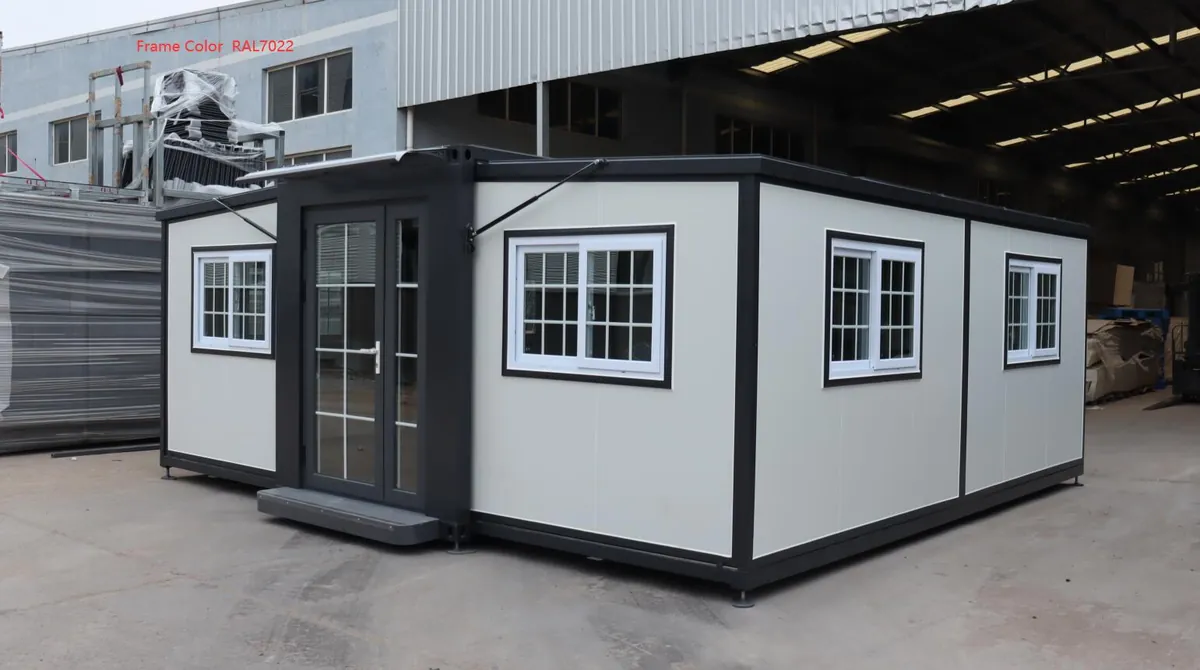
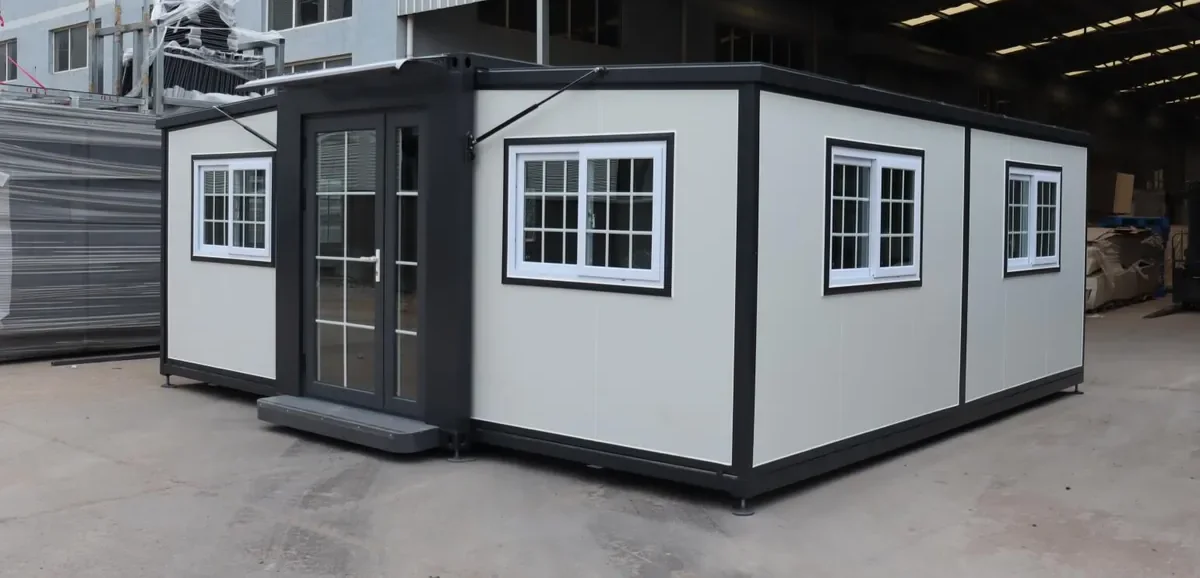
Redesign the range section to hero the two editions
- Replace the two-card carousel (arrows for two items, small cards) with
  a split showcase: two large photo-led panels with gradient overlays,
  serif edition names and hover zoom
- Classic White uses the factory exterior, Black Edition the backyard
  lifestyle shot; both link straight to their product pages
- Crop the manufacturer's red RAL annotation strip out of the white
  factory photo (also cleans up the product gallery lead)
- Swap the "Explore the full range" button for a lighter compare link;
  add reusable .text-link style

Claude-Session: https://claude.ai/code/session_01WCxgmdczAinLagV4CD8NWB

diff --git a/index.html b/index.html
@@ -232,38 +232,34 @@
     </section>
 
     <section class="section section-white" aria-labelledby="range-h">
-      <div class="wrap" style="padding-inline:0">
-        <div class="wrap center reveal">
+      <div class="wrap">
+        <div class="center reveal">
           <span class="sec-num" aria-hidden="true">02</span>
           <span class="eyebrow eyebrow-center">The range</span>
           <h2 id="range-h">One home. Two editions. <em>Zero compromises.</em></h2>
-          <p class="lead center" style="margin-inline:auto">One layout. Classic White or feature-clad Black.</p>
+          <p class="lead center" style="margin-inline:auto">Same two-bedroom layout. Choose your exterior.</p>
         </div>
-        <div class="carousel" style="margin-top:2.5rem">
-          <div class="carousel-nav">
-            <button class="carousel-btn" data-dir="prev" aria-label="Previous products"><svg width="20" height="20" viewBox="0 0 24 24" fill="none" stroke="currentColor" stroke-width="2.5" stroke-linecap="round" stroke-linejoin="round"><path d="M19 12H5M11 18l-6-6 6-6"/></svg></button>
-            <button class="carousel-btn" data-dir="next" aria-label="Next products"><svg width="20" height="20" viewBox="0 0 24 24" fill="none" stroke="currentColor" stroke-width="2.5" stroke-linecap="round" stroke-linejoin="round"><path d="M5 12h14M13 6l6 6-6 6"/></svg></button>
-          </div>
-          <div class="carousel-track">
-          <a class="product-card" href="product-model-0206-two-bedroom-white.html">
-            <div class="media"><span class="badge">Two Bedrooms</span><img src="assets/photos/white-cutout.webp" alt="Model 0206 Classic White expandable home with grid-design windows" loading="lazy"></div>
-            <div class="body">
-              <h3>Model 0206 Two-Bedroom — Classic White</h3>
-              <p class="meta">2 bed &middot; 1 bath &middot; sleeps 4</p>
-              <div class="price-row"><span class="price" style="font-size:var(--fs-400)">Delivered quote on request</span><svg class="arrow" width="18" height="18" viewBox="0 0 24 24" fill="none" stroke="currentColor" stroke-width="2.5" stroke-linecap="round" stroke-linejoin="round" aria-hidden="true"><path d="M5 12h14M13 6l6 6-6 6"/></svg></div>
+        <div class="editions" style="margin-top:2.5rem">
+          <a class="edition reveal reveal-d0" href="product-model-0206-two-bedroom-white.html">
+            <img src="assets/photos/white-factory-1.webp" alt="Model 0206 Classic White fully expanded, white panels with grid-design windows" loading="lazy">
+            <div class="edition-overlay">
+              <span class="edition-tag">Model 0206 &middot; Two bedrooms</span>
+              <h3>Classic White</h3>
+              <p>Crisp white panels, grid windows. Bright and timeless.</p>
+              <span class="edition-cta">Explore this edition <svg class="arrow" width="18" height="18" viewBox="0 0 24 24" fill="none" stroke="currentColor" stroke-width="2.5" stroke-linecap="round" stroke-linejoin="round" aria-hidden="true"><path d="M5 12h14M13 6l6 6-6 6"/></svg></span>
             </div>
           </a>
-          <a class="product-card" href="product-model-0206-two-bedroom-black.html">
-            <div class="media"><span class="badge">Premium Cladding</span><img src="assets/photos/hero-backyard.webp" alt="Model 0206 Black Edition with timber-look cladding installed in a backyard" loading="lazy"></div>
-            <div class="body">
-              <h3>Model 0206 Two-Bedroom — Black Edition</h3>
-              <p class="meta">2 bed &middot; 1 bath &middot; sleeps 4</p>
-              <div class="price-row"><span class="price" style="font-size:var(--fs-400)">Delivered quote on request</span><svg class="arrow" width="18" height="18" viewBox="0 0 24 24" fill="none" stroke="currentColor" stroke-width="2.5" stroke-linecap="round" stroke-linejoin="round" aria-hidden="true"><path d="M5 12h14M13 6l6 6-6 6"/></svg></div>
+          <a class="edition reveal reveal-d1" href="product-model-0206-two-bedroom-black.html">
+            <img src="assets/photos/hero-backyard.webp" alt="Model 0206 Black Edition with timber-look cladding in a landscaped backyard" loading="lazy">
+            <div class="edition-overlay">
+              <span class="edition-tag">Model 0206 &middot; Two bedrooms</span>
+              <h3>Black Edition</h3>
+              <p>Matte black frame, timber-look feature cladding.</p>
+              <span class="edition-cta">Explore this edition <svg class="arrow" width="18" height="18" viewBox="0 0 24 24" fill="none" stroke="currentColor" stroke-width="2.5" stroke-linecap="round" stroke-linejoin="round" aria-hidden="true"><path d="M5 12h14M13 6l6 6-6 6"/></svg></span>
             </div>
           </a>
-          </div>
         </div>
-        <div class="wrap center"><a class="btn btn-navy" href="products.html">Explore the full range <svg class="arrow" width="18" height="18" viewBox="0 0 24 24" fill="none" stroke="currentColor" stroke-width="2.5" stroke-linecap="round" stroke-linejoin="round" aria-hidden="true"><path d="M5 12h14M13 6l6 6-6 6"/></svg></a></div>
+        <p class="center reveal" style="margin-top:1.75rem"><a class="text-link" href="products.html">Compare both editions side by side <svg class="arrow" width="18" height="18" viewBox="0 0 24 24" fill="none" stroke="currentColor" stroke-width="2.5" stroke-linecap="round" stroke-linejoin="round" aria-hidden="true"><path d="M5 12h14M13 6l6 6-6 6"/></svg></a></p>
       </div>
     </section>
 

diff --git a/assets/css/main.css b/assets/css/main.css
@@ -1185,6 +1185,88 @@ h1 em, h2 em, h3 em {
 .cta-banner { position: relative; overflow: hidden; }
 
 /* Bento grid */
+/* Edition showcase — two photo-led panels */
+.editions {
+  display: grid;
+  grid-template-columns: 1fr 1fr;
+  gap: clamp(1rem, 1.8vw, 1.5rem);
+}
+.edition {
+  position: relative;
+  display: block;
+  min-height: clamp(420px, 52vh, 600px);
+  border-radius: var(--radius-lg);
+  overflow: hidden;
+  box-shadow: var(--shadow-md);
+  text-decoration: none;
+}
+.edition img {
+  position: absolute;
+  inset: 0;
+  width: 100%;
+  height: 100%;
+  object-fit: cover;
+  transition: transform 0.7s var(--ease);
+}
+.edition:hover img,
+.edition:focus-visible img { transform: scale(1.045); }
+.edition-overlay {
+  position: absolute;
+  inset: auto 0 0 0;
+  padding: clamp(1.5rem, 3vw, 2.25rem);
+  background: linear-gradient(180deg, rgba(20, 25, 14, 0) 0%, rgba(20, 25, 14, 0.62) 45%, rgba(20, 25, 14, 0.88) 100%);
+  color: #fff;
+}
+.edition-tag {
+  display: inline-block;
+  font-size: var(--fs-200);
+  font-weight: 700;
+  letter-spacing: 0.14em;
+  text-transform: uppercase;
+  color: var(--gold);
+  margin-bottom: 0.5rem;
+}
+.edition-overlay h3 {
+  font-family: var(--font-display);
+  font-size: clamp(1.7rem, 2.6vw, 2.3rem);
+  font-weight: 600;
+  color: #fff;
+  margin: 0 0 0.35rem;
+}
+.edition-overlay p {
+  color: rgba(255, 255, 255, 0.85);
+  font-size: var(--fs-400);
+  margin: 0 0 1rem;
+  max-width: 42ch;
+}
+.edition-cta {
+  display: inline-flex;
+  align-items: center;
+  gap: 0.5rem;
+  font-weight: 700;
+  font-size: var(--fs-300);
+  color: var(--gold);
+  transition: gap 0.3s var(--ease);
+}
+.edition:hover .edition-cta,
+.edition:focus-visible .edition-cta { gap: 0.85rem; }
+.text-link {
+  display: inline-flex;
+  align-items: center;
+  gap: 0.5rem;
+  font-weight: 700;
+  color: var(--gold-600);
+  text-decoration: none;
+  border-bottom: 1px solid rgba(138, 106, 46, 0.35);
+  padding-bottom: 2px;
+  transition: gap 0.3s var(--ease), border-color 0.3s;
+}
+.text-link:hover { gap: 0.85rem; border-color: var(--gold-600); }
+@media (max-width: 780px) {
+  .editions { grid-template-columns: 1fr; }
+  .edition { min-height: 340px; }
+}
+
 .bento {
   display: grid;
   grid-template-columns: repeat(4, 1fr);
